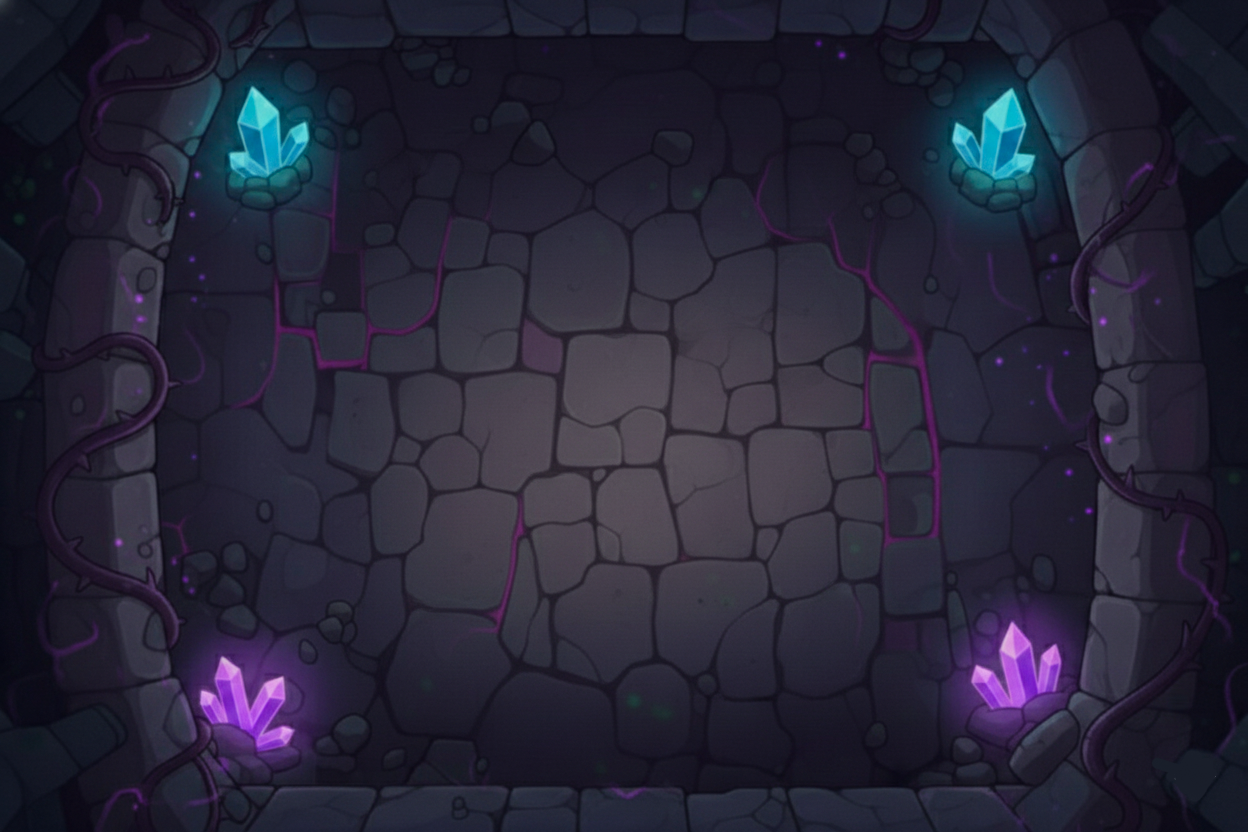
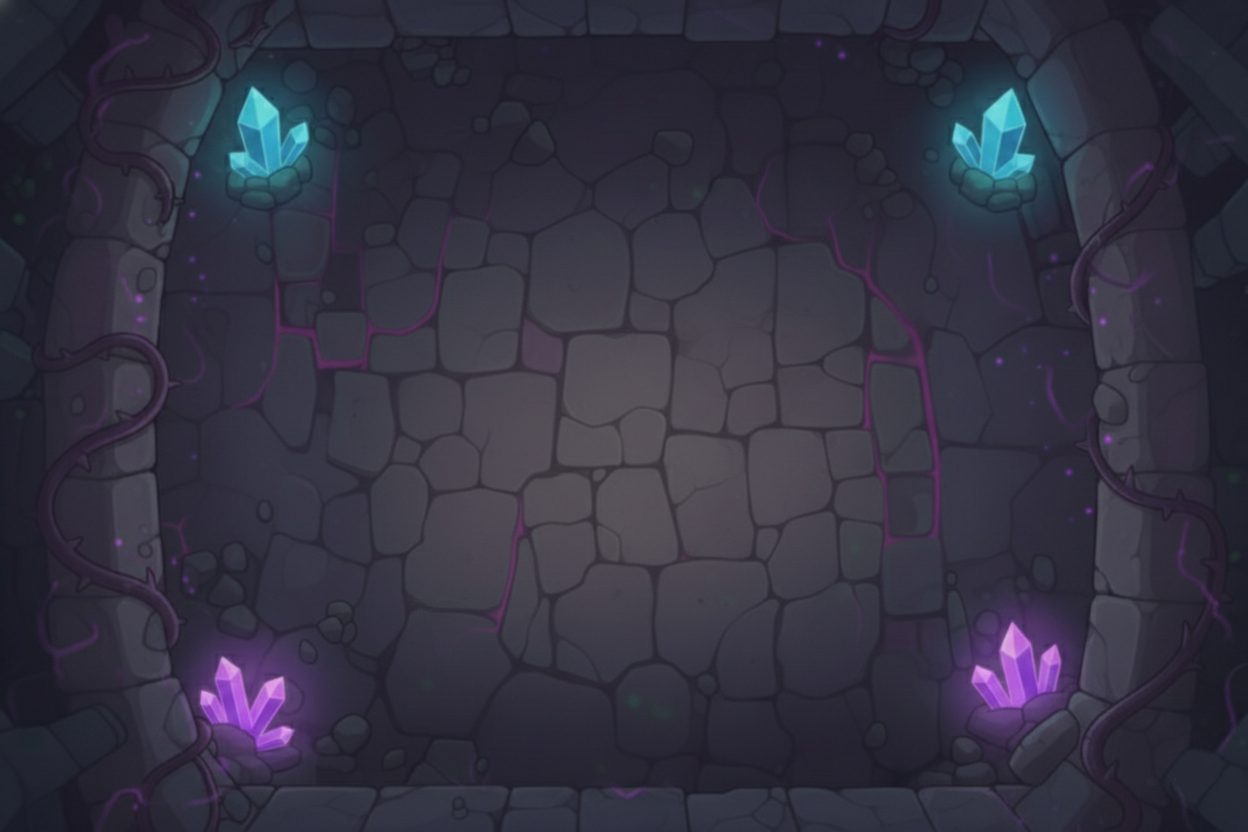
Board Update ( Tiles to 1Whole Image)

Changed region(s): [[0.75, 0.0938, 0.8438, 0.25], [0.1562, 0.0938, 0.25, 0.25], [0.8125, 0.8125, 0.8438, 0.8438]]

diff --git a/src/components/game/GameBoard.tsx b/src/components/game/GameBoard.tsx
@@ -85,20 +85,6 @@ const GameBoard = ({
 
   const prevWhiteKnightPos = usePrevious(whiteKnightPos);
   const prevShadowKnights = usePrevious(shadowKnights);
-
-  const getSquareStyle = (row: number, col: number) => {
-    return (row + col) % 2 === 0
-      ? { 
-          backgroundImage: "url('/White-tile.png')",
-          backgroundSize: 'cover',
-          backgroundPosition: 'center',
-        }
-      : { 
-          backgroundImage: "url('/Black-tile.png')",
-          backgroundSize: 'cover',
-          backgroundPosition: 'center',
-        };
-  };
   
   const shakeVariants = {
     shake: {
@@ -119,6 +105,7 @@ const GameBoard = ({
       variants={shakeVariants}
       initial="initial"
       animate={boardShake > 0 ? "shake" : "initial"}
+      style={{ backgroundImage: 'url(/Board.png)', backgroundSize: 'cover' }}
     >
       <AnimatePresence>
         {board.map((row, rowIndex) =>
@@ -131,7 +118,6 @@ const GameBoard = ({
               <div
                 key={`${rowIndex}-${colIndex}`}
                 className={'relative flex items-center justify-center'}
-                style={getSquareStyle(rowIndex, colIndex)}
               >
                  <AnimatePresence>
                   {isIllegal && (
